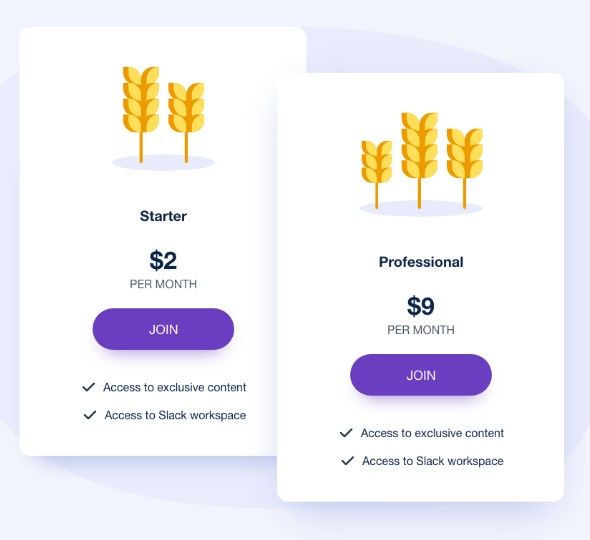
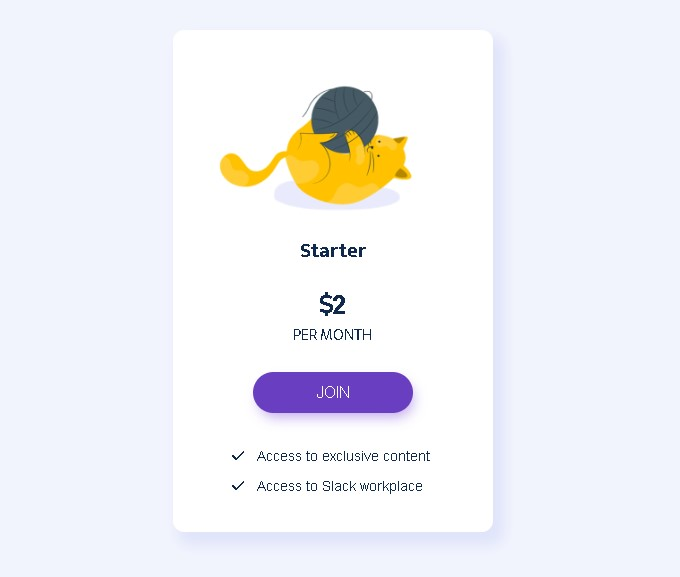
Purple Princing Card complete

diff --git a/views/plans-card-1.html b/views/plans-card-1.html
@@ -5,11 +5,8 @@
         <meta http-equiv="X-UA-Compatible" content="IE=edge" />
         <meta name="viewport" content="width=device-width, initial-scale=1.0" />
         <meta name="author" content="Nemo" />
-        <meta
-            name="description"
-            content="Plans Card 1 a page created to style a plans card"
-        />
-        <title>Plans Card 1</title>
+        <meta name="description" content="Purple Pricing Card" />
+        <title>Purple Pricing Card</title>
         <link rel="icon" href="../assets/img/favicon.png" />
         <link rel="apple-touch-icon" href="../assets/img/favicon.png" />
         <link rel="preconnect" href="https://fonts.googleapis.com" />
@@ -32,7 +29,35 @@
             referrerpolicy="no-referrer"
         />
         <link rel="stylesheet" href="../css/base.css" />
-        <link rel="stylesheet" href="../css/plans-card1.css" />
+        <link rel="stylesheet" href="../css/plans-card-1.css" />
     </head>
-    <body></body>
+    <body>
+        <article class="card">
+            <img
+                class="card__image"
+                src="../assets/img/yellow-cat-playing.png"
+                alt="namaste"
+            />
+            <p class="card__title">Starter</p>
+            <p class="card__pricing">
+                <i class="fa-solid fa-dollar-sign fa-xl"></i>
+                <span class="card__price">2</span>
+            </p>
+            <p class="card__time">PER MONTH</p>
+            <button class="card__button">
+                <a href="#">JOIN</a>
+            </button>
+            <ul class="fa-ul card__list-advantage">
+                <li class="card__advantage">
+                    <span class="fa-li"><i class="fa-solid fa-check"></i></span>
+
+                    <span class="card__text">Access to exclusive content</span>
+                </li>
+                <li class="card__advantage">
+                    <span class="fa-li"><i class="fa-solid fa-check"></i></span>
+                    <span class="card__text"> Access to Slack workplace</span>
+                </li>
+            </ul>
+        </article>
+    </body>
 </html>

diff --git a/css/plans-card-1.css b/css/plans-card-1.css
@@ -1,0 +1,96 @@
+:root {
+    --body-color: hsl(229, 73%, 97%);
+    --text-color: hsl(216, 67%, 18%);
+    --card-color: hsl(0, 0%, 100%);
+    --card-shadow: hsl(231, 72%, 93%);
+    --button-shadow: hsl(261, 64%, 79%);
+    --button-color: hsl(260, 51%, 50%);
+}
+
+body {
+    background-color: var(--body-color);
+    display: flex;
+    flex-flow: row wrap;
+    justify-content: center;
+    align-items: center;
+    font-family: sans-serif;
+}
+
+p {
+    color: var(--text-color);
+}
+
+.card {
+    padding: clamp(0.5em, 0.5em + 2vh, 2em) clamp(1.5em, 2.5em, 3.5em);
+    width: clamp(15rem, 15rem + 5vw, 20rem);
+    height: auto;
+    background-color: var(--card-color);
+    border-radius: 0.7em;
+    box-shadow: 8px 10px 13px 3.5px var(--card-shadow);
+}
+
+.card__image {
+    max-width: 100%;
+    height: 10rem;
+    margin-bottom: 1.5em;
+    object-fit: contain;
+    object-position: center;
+}
+
+.card__title {
+    font-size: 1.3rem;
+    font-weight: bold;
+    text-align: center;
+    margin-bottom: 1.5em;
+}
+
+.card__pricing {
+    margin-bottom: 0.5em;
+    text-align: center;
+    color: var(--text-color);
+}
+
+.card__price {
+    margin-left: -0.35rem;
+    font-size: 1.6rem;
+    vertical-align: sub;
+    font-family: sans-serif;
+    font-weight: bold;
+}
+
+.card__time {
+    margin-bottom: 1.5em;
+    text-align: center;
+    font-weight: 300;
+}
+
+.card__button {
+    background-color: var(--button-color);
+    margin-left: auto;
+    margin-right: auto;
+    margin-bottom: 2em;
+    width: 10rem;
+    padding: 0.7em;
+    border-radius: 1.5em;
+    box-shadow: 3px 7px 13px -3px var(--button-shadow);
+    color: white;
+}
+
+.card__button:hover {
+    opacity: 0.7;
+    transition: 0.5s;
+}
+
+.card__list {
+    padding: 0.3em;
+}
+
+.card__advantage {
+    color: var(--text-color);
+    font-size: 0.9rem;
+    margin-bottom: 0.5rem;
+}
+
+.card__text {
+    margin-left: 0.3rem;
+}

diff --git a/views/index.html b/views/index.html
@@ -79,14 +79,14 @@
             <h2 class="category__title">Plans</h2>
             <section class="category__cards">
                 <article class="card">
-                    <h3 class="card__title">Card 1</h3>
+                    <h3 class="card__title">Purple Pricing Card</h3>
                     <img
                         src="../assets/img/card1.jpg"
                         alt=""
                         class="card__image"
                     />
                     <button class="button card__button">
-                        <a href="#">GO TO</a>
+                        <a href="plans-card-1.html">GO TO</a>
                     </button>
                 </article>
                 <article class="card">

diff --git a/css/style.css b/css/style.css
@@ -165,7 +165,7 @@ h3 {
 .card {
     width: 23rem;
     max-width: 100%;
-    padding: 1rem;
+    padding: 2rem;
     margin-bottom: 3rem;
     border: 1px var(--color-gray) solid;
     border-radius: 0.3em;
@@ -179,7 +179,7 @@ h3 {
 .card__image {
     width: 100%;
     height: 14em;
-    margin-bottom: 1rem;
+    margin-bottom: 1.5rem;
     border-radius: 0.3em;
     object-fit: contain;
 }
